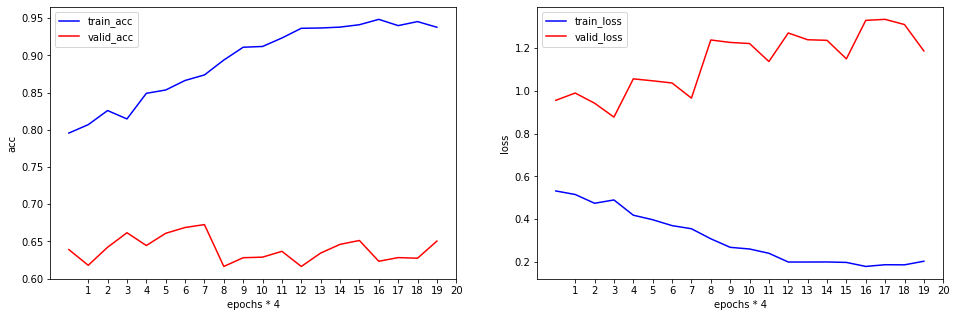
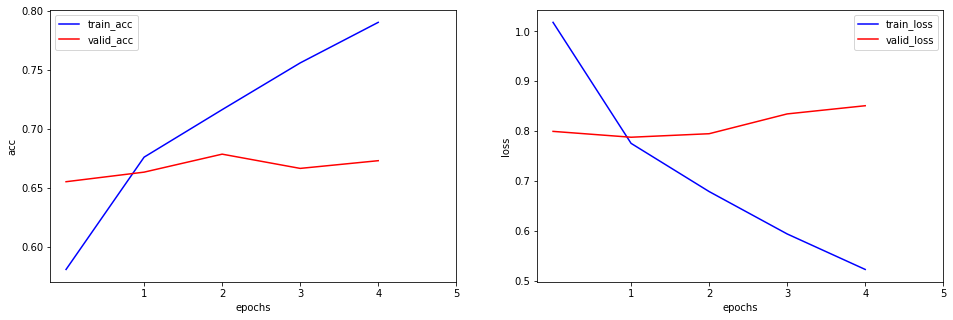
add learning metrics chart

diff --git a/README.md b/README.md
@@ -185,7 +185,28 @@
 - 1위는 정확도 0.7124 (제출 40회)
 - 2~6위는 정확도 0.70xx (제출 20~30회)
 
-#### 그 외에 만든 코드들
+#### submission_v5.2 의 학습 곡선
+
+학습의 효과가 그리 크지 않다. <br/>
+어떤 모델도 대동소이하고, 그나마 나은 모양이 이정도이다.
+
+![submission_v5.2: acc, loss lines](./images/bert-train-acc_loss-linechart.png)
+
+#### submission_v6.6 의 metrics 테이블
+
+- epochs=5, max_len=64, hanspell 전처리 데이터 ==> **제출 acc 0.6685**
+
+| Step | Training Loss | Validation Loss | Acc      | F1       | Precision | Recall   |
+| ---- | ------------- | --------------- | -------- | -------- | --------- | -------- |
+| 200  | 0.874800      | 0.755506        | 0.675670 | 0.635766 | 0.608009  | 0.675670 |
+| 400  | 0.714600      | 0.741090        | 0.696879 | 0.659495 | 0.651146  | 0.696879 |
+| 600  | 0.674700      | 0.730055        | 0.698679 | 0.650947 | 0.660954  | 0.698679 |
+| 800  | 0.587200      | 0.785325        | 0.684874 | 0.670020 | 0.661441  | 0.684874 |
+| 1000 | 0.561900      | 0.824220        | 0.679872 | 0.667984 | 0.661331  | 0.679872 |
+| 1200 | 0.484300      | 0.845129        | 0.681673 | 0.669266 | 0.662164  | 0.681673 |
+| 1400 | 0.418500      | 0.915961        | 0.669468 | 0.662132 | 0.656407  | 0.669468 |
+
+### 그 외에 만든 코드들
 
 - [데이터 EDA](./aib-proj-data-eda.ipynb)
   - 원본 데이터
